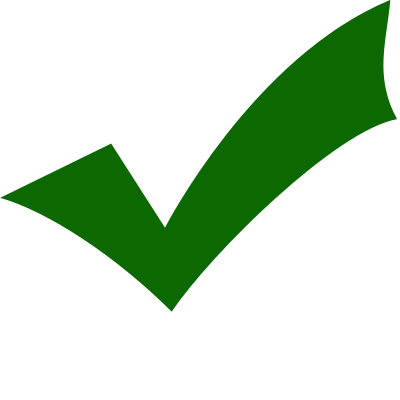
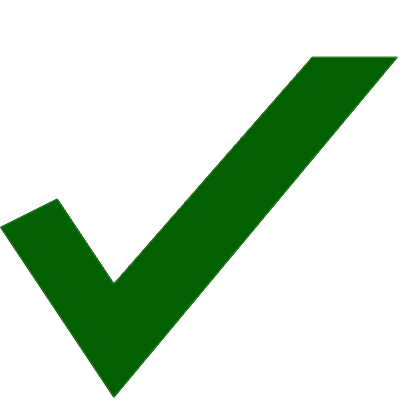
gronbock

diff --git a/www/scripts/run.js b/www/scripts/run.js
@@ -58,7 +58,7 @@ $("input[type=submit]").click(function(){
     }
     else
     {
-	  $("#"+question).html('<img src="/images/gronbock2.png" class="bock" />')
+	  $("#"+question).html('<img src="/images/gronbock.png" class="bock" />')
     }	
  		
 	if (allCorrect)
